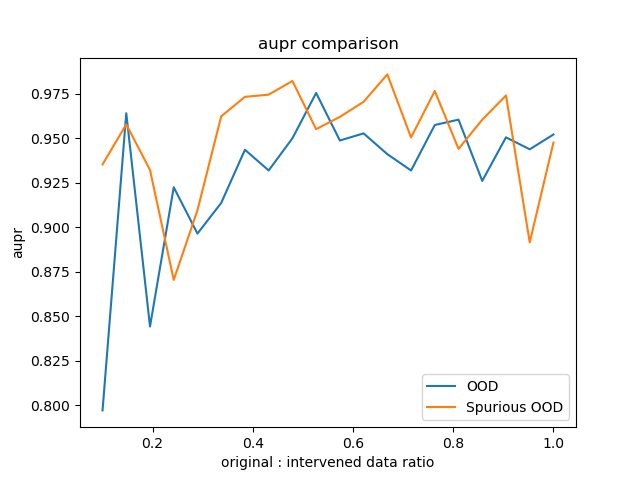
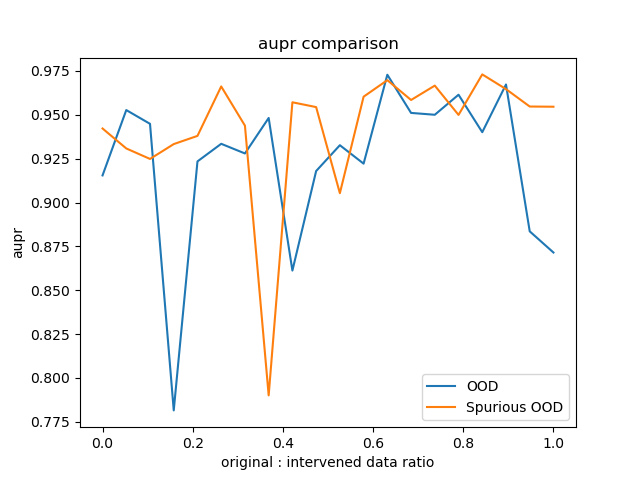
complete ablation

diff --git a/ColorMNIST/evaluate_cnn_classification.py b/ColorMNIST/evaluate_cnn_classification.py
@@ -19,6 +19,7 @@ import utils
 import random
 
 import matplotlib.pyplot as plt
+import constants
 
 img_shape = (3, 32, 32)
 
@@ -211,7 +212,7 @@ def plot_in_dist(in_dist):
     plt.xlabel("original : intervened data ratio")
     plt.ylabel("in-distribution accuracy")
     plt.title("In-distribution performance")
-    plt.savefig(os.path.join("in_dist.png"))
+    plt.savefig(os.path.join(results_dir,"in_dist.png"))
     plt.close()
 
 def plot_ood_results(ood,spurious,metric):
@@ -232,7 +233,8 @@ def plot_results(in_dist, ood, spurious):
     plot_ood_results(ood, spurious, 'aupr')
     plot_ood_results(ood, spurious, 'fpr')
 
-r = 0.9
+
+r = constants.r
 results_dir = f"results/r_{r}"
 if not os.path.isdir(results_dir):
     os.mkdir(results_dir)
@@ -259,8 +261,7 @@ color_mnist_train_intervened_set = datasets.ImageFolder(color_mnist_train_interv
 
 
 
-ORIG_INTERV_RATIOs = np.linspace(0.1,1,20) #how much original data : intervened data
-print(ORIG_INTERV_RATIOs)
+ORIG_INTERV_RATIOs = np.linspace(0,1,20) #how much original data : intervened data
 ablation_loaders = []
 for ratio in ORIG_INTERV_RATIOs:
     split_n = int(ratio * len(color_mnist_train_set))
@@ -289,10 +290,10 @@ combined_trainloader = torch.utils.data.DataLoader(
                                                         color_mnist_combined_set, 
                                                         batch_size=BATCH_SIZE, shuffle=True)
 
-print('train baseline')
-cnn_baseline = CNN()
-cnn_baseline = cnn_baseline.cuda()
-fit(cnn_baseline, color_mnist_trainloader)
+# print('train baseline')
+# cnn_baseline = CNN()
+# cnn_baseline = cnn_baseline.cuda()
+# fit(cnn_baseline, color_mnist_trainloader)
 
 # print('train intervened')
 # cnn_intervened = CNN()
@@ -307,15 +308,15 @@ for loader in ablation_loaders:
     fit(cnn_augment, loader)
     ablation_models.append(cnn_augment)
 
-print("BASELINE")
-in_pred, _ = evaluate(cnn_baseline, testloader_indist)
-print("OOD")
-out_pred, _ = evaluate_ood(cnn_baseline, testloader_ood)
-utils.get_and_print_results(in_pred,out_pred,"dummy_ood","dummy_method")
-print("------------------------")
-print("SPURIOUS OOD")
-sp_out_pred, _ = evaluate_ood(cnn_baseline, testloader_spurious_ood)
-utils.get_and_print_results(in_pred,sp_out_pred,"dummy_ood","dummy_method")
+# print("BASELINE")
+# in_pred, _ = evaluate(cnn_baseline, testloader_indist)
+# print("OOD")
+# out_pred, _ = evaluate_ood(cnn_baseline, testloader_ood)
+# utils.get_and_print_results(in_pred,out_pred,"dummy_ood","dummy_method")
+# print("------------------------")
+# print("SPURIOUS OOD")
+# sp_out_pred, _ = evaluate_ood(cnn_baseline, testloader_spurious_ood)
+# utils.get_and_print_results(in_pred,sp_out_pred,"dummy_ood","dummy_method")
 
 # print("######################")
 # print("intervened")

diff --git a/ColorMNIST/main-irm.py b/ColorMNIST/main-irm.py
@@ -230,7 +230,6 @@ for restart in range(flags.n_restarts):
         ps = torch.exp(logps)
         top_p, top_idx = torch.topk(logps,k = 1, dim=1)
         preds = top_idx
-        breakpoint()
         num_correct = torch.sum((y==preds)).to(torch.float)
         num_dp = y.shape[0]
         acc = num_correct/num_dp
@@ -256,9 +255,11 @@ for restart in range(flags.n_restarts):
     pretty_print('step', 'train nll', 'train acc', 'train penalty', 'test acc')
 
     for step in range(flags.steps):
+        print('STEP', step)
         for env in envs:
             logits = mlp(env['images'][:64].cuda())
             labels = env['labels'][:64].cuda()
+            print('shape', logits.shape)
             env['nll'] = mnist_loss(logits, labels)
             env['acc'] = mnist_acc(logits,labels)
             env['penalty'] = mnist_penalty(logits, labels)

diff --git a/ColorMNIST/train_vae.py b/ColorMNIST/train_vae.py
@@ -9,6 +9,7 @@ from torchvision.utils import save_image
 from tqdm import tqdm
 
 import os
+import constants
 
 log_interval = 10
 epochs = 50
@@ -19,7 +20,8 @@ torch.manual_seed(1)
 
 device = torch.device("cuda")
 
-r = 0.9
+
+r = constants.r
 train_path= f'/nobackup/dyah_roopa/VAE_ColorMNIST_original/color_MNIST_1/train_{r}/'
 # train_path='/nobackup/dyah_roopa/color_MNIST/train/'
 test_path= '/nobackup/dyah_roopa/color_MNIST/test/'
@@ -27,7 +29,6 @@ test_path= '/nobackup/dyah_roopa/color_MNIST/test/'
 composed_transforms = transforms.Compose([
                 transforms.ToTensor(),
             ])
-
 train_dataset = datasets.ImageFolder(
     train_path, composed_transforms
             )

diff --git a/ColorMNIST/copy_images.py b/ColorMNIST/copy_images.py
@@ -1,8 +1,9 @@
 import os
 import shutil
 import pandas as pd
+import constants
 
-r = 0.9
+r = constants.r
 train_file = f"/nobackup/dyah_roopa/VAE_ColorMNIST_original/color_MNIST_1/r_{r}/train.csv"
 test_file = f"/nobackup/dyah_roopa/VAE_ColorMNIST_original/color_MNIST_1/r_{r}/test.csv"
 

diff --git a/ColorMNIST/split_train_test.py b/ColorMNIST/split_train_test.py
@@ -2,8 +2,9 @@ import numpy as np
 import os
 import pandas as pd
 from sklearn.model_selection import train_test_split
+import constants
 
-r = 0.9
+r = constants.r
 colormnist_dir = f"/nobackup/dyah_roopa/VAE_ColorMNIST_original/color_MNIST_1/r_{r}"
 label_file = "targets.npy"
 

diff --git a/ColorMNIST/constants.py b/ColorMNIST/constants.py
@@ -1,0 +1,1 @@
+r = 0.9
